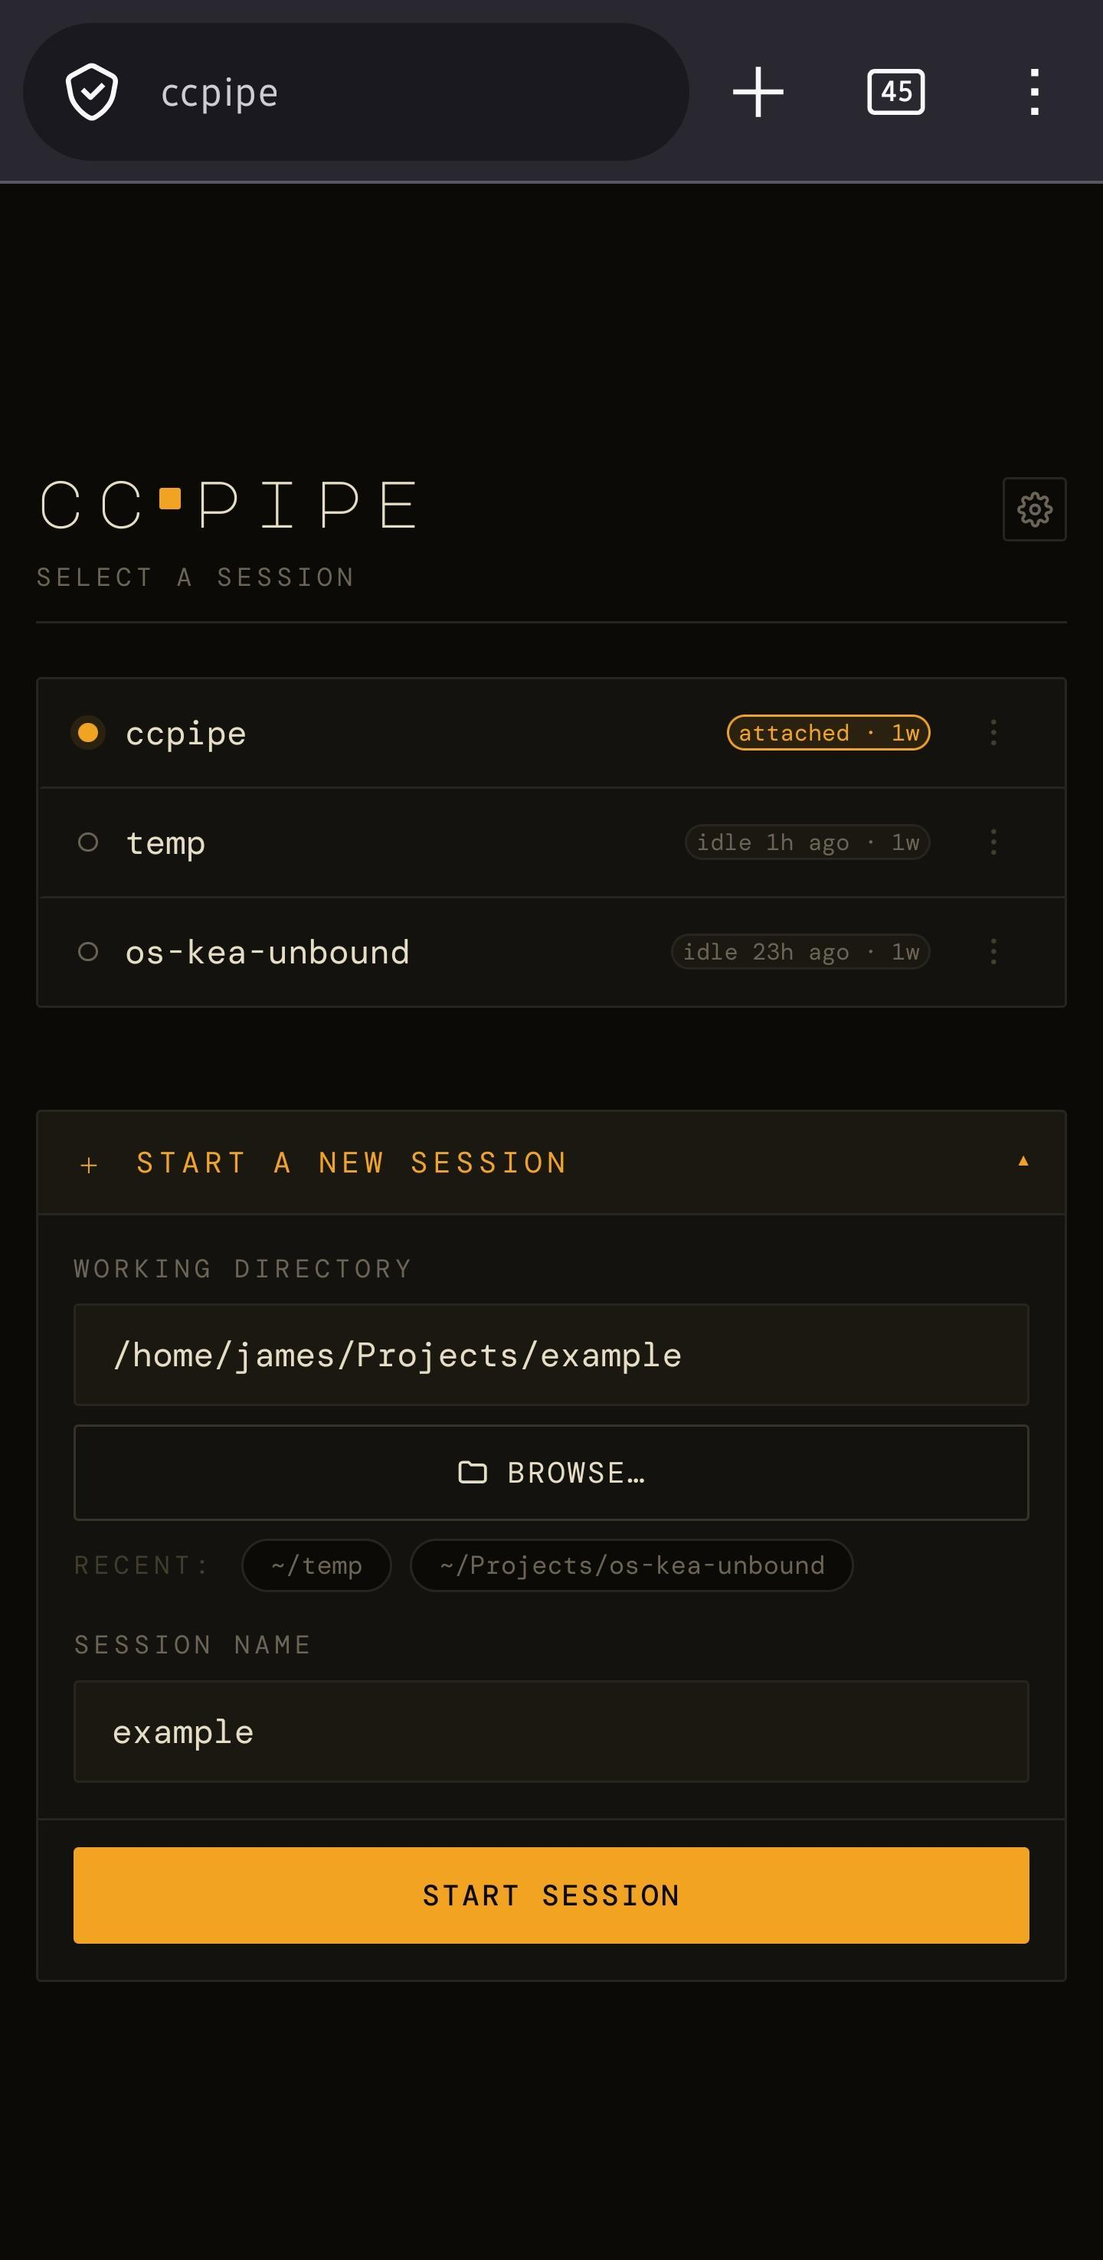
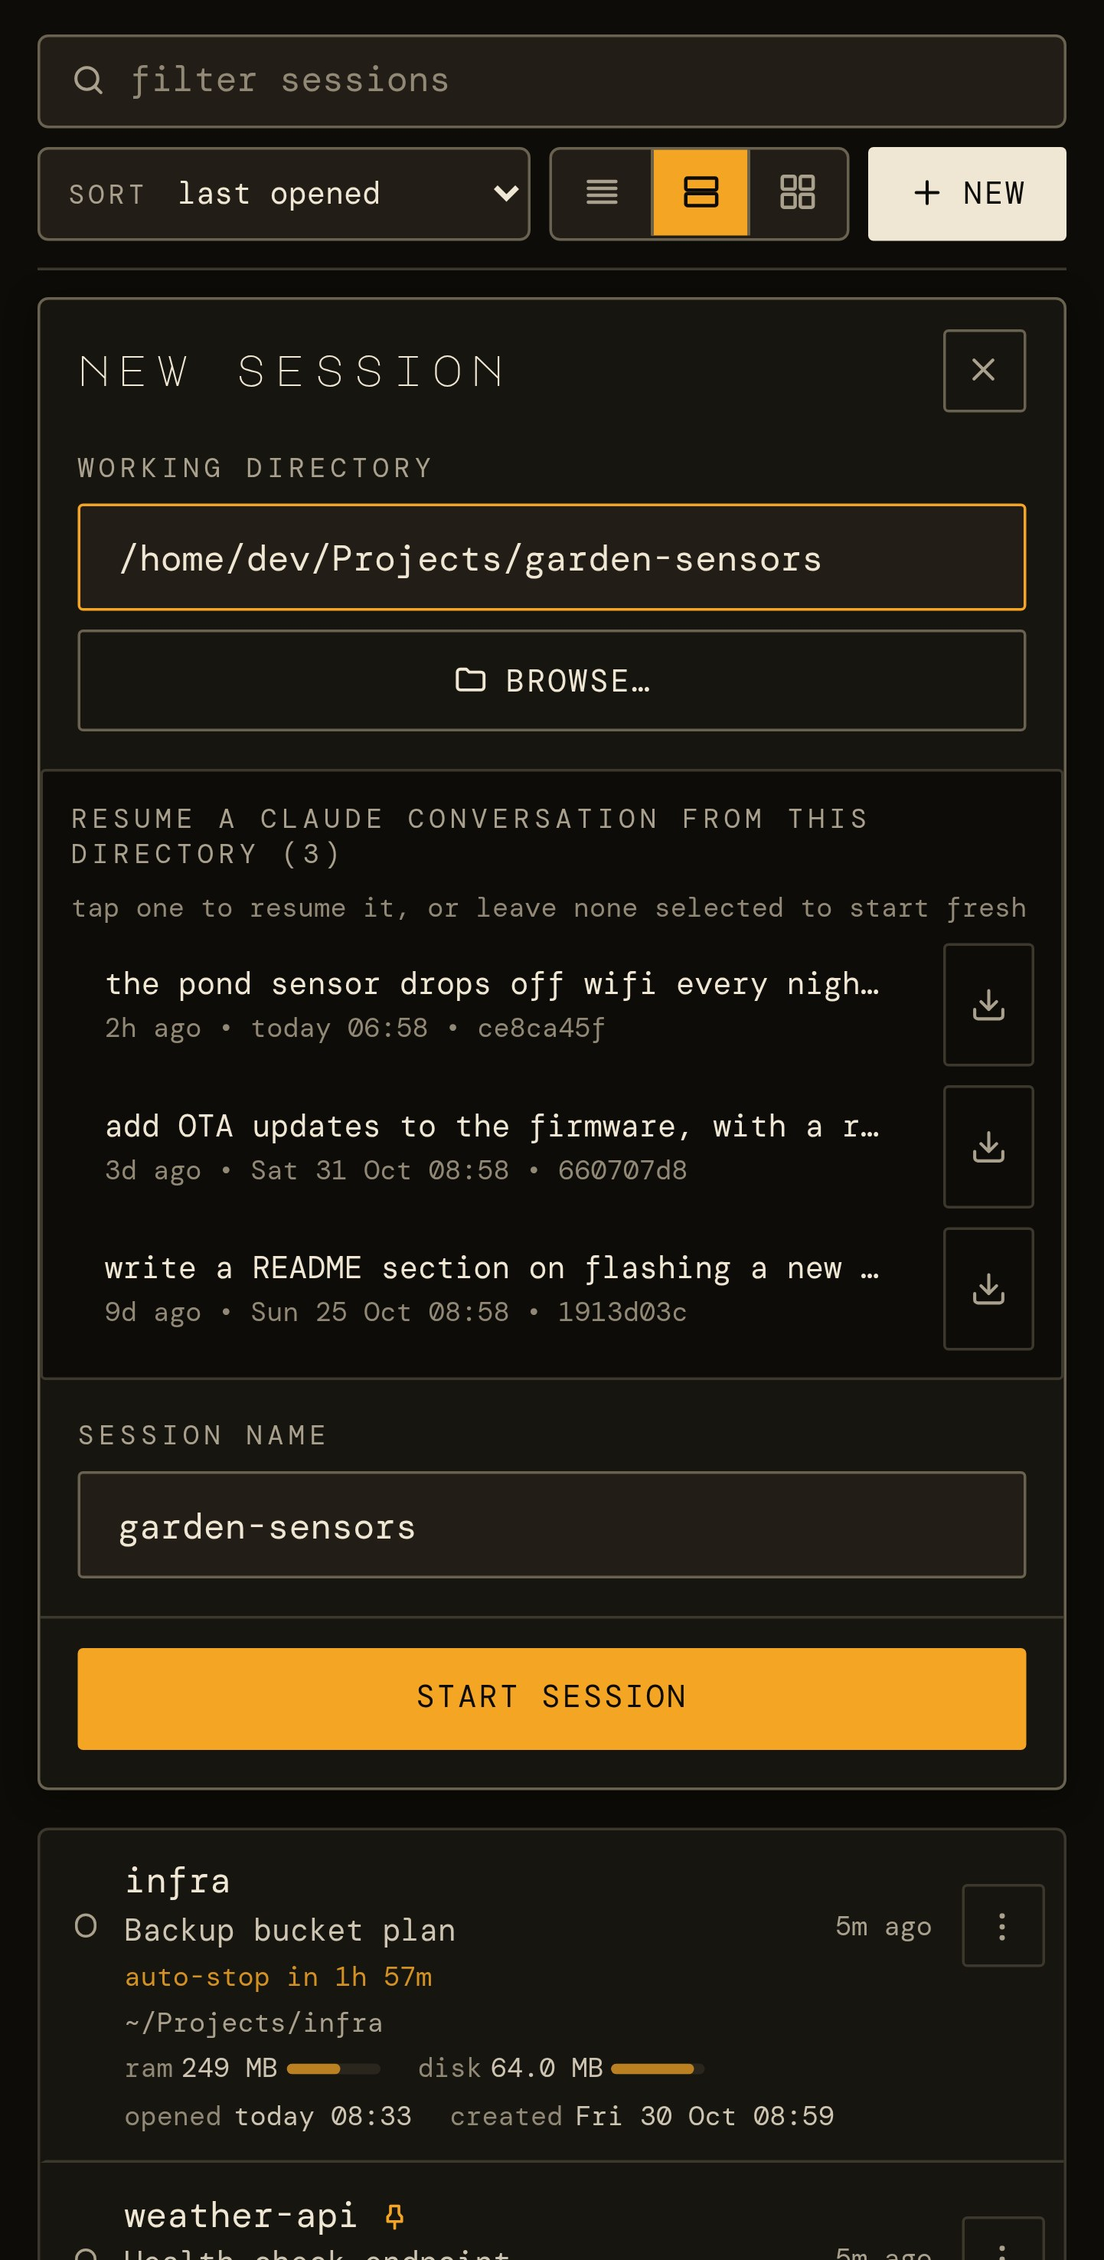
docs: README and screenshots for the session list, lifecycle and status
README: the session list (views, sort, filter, states, auto-stop
countdown), remembered / stopped sessions and resume, start at boot and
idle stop, Claude's working state, the system status meter and pop-up,
starting a session with resume, phones and tablets (key row, soft
keyboard, iPad window buttons), self-updating pages, a Settings overview,
what state is kept, and session records under the security notes.

Screenshots retaken on a demo machine with sample projects: every mobile
shot, login, every settings tab, tiles, the tiles menu, tmux controls,
the history view and the viewer (now with the docs drawer). New ones:
the desktop session list (table and grid), the status pop-up on phone
and desktop, Settings -> Sessions, and the file browser.

diff --git a/README.md b/README.md
@@ -24,41 +24,146 @@ the middle.
 
 ## What it looks like
 
+The screenshots come from a demo machine with sample projects.
+
 Mobile (PWA, installable to the home screen):
 
 <table>
 <tr>
-<td align="center"><img src="docs/screenshots/Mobile-StartSession.jpg" width="220" alt="Mobile session picker"></td>
-<td align="center"><img src="docs/screenshots/Mobile-CreateSession.jpg" width="220" alt="New session dialog with directory browse"></td>
-<td align="center"><img src="docs/screenshots/Mobile-Session.jpg" width="220" alt="Live session with voice"></td>
+<td align="center"><img src="docs/screenshots/Mobile-StartSession.jpg" width="200" alt="The session list on a phone: online status and ping, a summary of running, working and stopped sessions, CPU, memory and disk cards, a filter box, sort and view controls, and session rows showing Claude's task, working or idle state, the auto-stop countdown, memory, disk and when each was opened and created"></td>
+<td align="center"><img src="docs/screenshots/Mobile-CreateSession.jpg" width="200" alt="The new session panel: a working directory with a browse button, three earlier Claude conversations from that directory to resume, each with its first prompt, age and a download button, and the session name"></td>
+<td align="center"><img src="docs/screenshots/Mobile-Session.jpg" width="200" alt="A live Claude Code session on a phone: the top bar with the back button, ping, three-bar status meter and toolbar icons, Claude's reply with a diff, the prompt box holding a draft, and the Esc / Tab / / / Ctrl / arrow key row"></td>
+<td align="center"><img src="docs/screenshots/Mobile-Status.jpg" width="200" alt="The status pop-up opened from the three-bar meter: a key naming the cpu, mem and disk bars and their colours, CPU and memory graphs, disk use, and this session's memory, CPU and project size"></td>
 </tr>
 <tr>
-<td align="center"><sub>Pick an existing tmux session…</sub></td>
-<td align="center"><sub>…or start a new one in any directory…</sub></td>
-<td align="center"><sub>…then drive it by keyboard or voice.</sub></td>
+<td align="center"><sub>Every session, running or stopped…</sub></td>
+<td align="center"><sub>…start one in any directory, or resume an earlier conversation…</sub></td>
+<td align="center"><sub>…then drive it by keyboard, prompt box or voice.</sub></td>
+<td align="center"><sub>Tap the meter for the machine's status.</sub></td>
 </tr>
 </table>
 
 Desktop:
 
+<p align="center">
+  <img src="docs/screenshots/Desktop-Sessions.png" width="720" alt="The session list on a desktop, as a detailed table: each running session with its state, Claude's task, directory, last activity, memory and disk bars, last opened and created times, and below it the stopped sessions, each saying whether it resumes its conversation or as a shell">
+</p>
+
 <table>
 <tr>
 <td align="center"><img src="docs/screenshots/Desktop-Login.png" width="380" alt="Login screen"></td>
-<td align="center"><img src="docs/screenshots/Desktop-Display-Settings.png" width="380" alt="Display settings tab"></td>
+<td align="center"><img src="docs/screenshots/Desktop-Sessions-Settings.png" width="380" alt="Settings → Sessions: how many sticky and other sessions start at boot, and how long each kind may sit idle before it's stopped"></td>
 </tr>
 <tr>
 <td align="center"><sub>Login</sub></td>
-<td align="center"><sub>Display — font, line height, cursor</sub></td>
+<td align="center"><sub>Sessions — start at boot, idle stop</sub></td>
 </tr>
 <tr>
 <td align="center"><img src="docs/screenshots/Desktop-Voice-Settings.png" width="380" alt="Voice and voice-input settings"></td>
-<td align="center"><img src="docs/screenshots/Desktop-Account-Settings.png" width="380" alt="Account and two-factor settings"></td>
+<td align="center"><img src="docs/screenshots/Desktop-Account-Settings.png" width="380" alt="Account settings: change password or username, sign out, sign out everywhere, and two-factor setup"></td>
 </tr>
 <tr>
 <td align="center"><sub>Voice (TTS) + voice-input timings</sub></td>
-<td align="center"><sub>Account + two-factor (TOTP)</sub></td>
+<td align="center"><sub>Account, sign out everywhere, two-factor (TOTP)</sub></td>
 </tr>
 </table>
+
+**Session list.** The landing page lists every session, running or
+stopped. The header shows whether the server is online, the round-trip
+time, and a summary such as *8 running · 1 working · 1 with a task ·
+3 stopped*. Below it are the machine's CPU and memory, each with ten
+minutes of history, and its free disk space. Each session shows:
+
+- what Claude is working on: the task Claude Code puts in the pane
+  title;
+- its state: **working** while Claude is on a turn, **task running**
+  while a background shell task runs, idle otherwise, and **open**
+  while a terminal is attached somewhere;
+- its directory, memory, project size, and when it was last active,
+  last opened and first created;
+- a pin if it's sticky, and how many windows it has;
+- **auto-stop in 1h 57m** when it's idle and will be stopped (see below).
+
+Filter by name, task or directory (`/` jumps to the filter box), sort by
+recent activity, last opened, newest, name, memory or disk, and pick a
+compact list, a detailed table, or a grid of live screen previews. Each
+session's `⋮` menu opens, renames, stops or forgets it, or makes it
+sticky. Settings → Display → *status & graphs* turns the system panel and
+the per-session figures off on that device.
+
+<p align="center">
+  <img src="docs/screenshots/Desktop-Sessions-Grid.png" width="720" alt="The session list as a grid: each card shows a live preview of the session's screen above its directory, state, memory, disk and times">
+</p>
+
+**Sessions are remembered.** A session that isn't running stays on the
+list under **stopped**. That happens after a reboot, after an idle stop,
+or after you stop it from its menu. Tap it and it comes back: same name,
+same directory, and `claude --resume` on the conversation it was on. A
+session that never ran Claude (a shell you started over ssh, say)
+resumes as a shell in its directory instead. *Forget* removes a session
+for good. Under Settings → Sessions:
+
+- **Start at boot:** after a reboot, only the most recently used few
+  start by themselves: 5 sticky sessions and 0 others by default. The
+  rest wait until you open them. Restarting ccpipe (a deploy, say)
+  starts nothing and leaves stopped sessions stopped.
+- **Idle stop:** sessions that sit idle are stopped to free their
+  memory, after 1 day for sticky sessions and 2 hours for others
+  (0 = never). Idle is deliberately hard to reach. A session counts as
+  in use while any of these holds:
+  - a terminal is attached;
+  - its pane shows output;
+  - Claude is working, or has a background task or tool command
+    running;
+  - anything else runs in its shell;
+  - it uses CPU;
+  - a question or permission prompt is waiting.
+
+  Only sessions running Claude are ever stopped, and every stop is
+  logged.
+- **When it can't resume:** if the directory was deleted, opening the
+  session says so and leaves its record alone. It never quietly starts
+  a fresh Claude in `$HOME`.
+- **When a terminal is open on a stopped session:** stopping or
+  forgetting a session that a terminal has open sends that terminal
+  back to the list with a note ("weather-api was stopped") rather than
+  reconnecting.
+
+The details are in
+[`docs/configuration.md`](docs/configuration.md#remembered-stopped-and-sticky-sessions).
+
+**Claude's working state.** ccpipe takes "is Claude working" from Claude
+Code's own status file (`~/.claude/sessions/<pid>.json`: busy, idle, or
+idle with a background shell task). It doesn't guess from the screen,
+so a long tool call that prints nothing for minutes still counts as
+working.
+
+**System status in every session.** Beside the ping in a session's top
+bar:
+
+- On a wide screen there's a CPU graph, memory and disk bars, and the
+  project's size.
+- On a phone or a narrow window that becomes three thin bars: CPU,
+  memory and disk, from left to right. Each bar is amber below 70 %,
+  orange from 70 % and red from 90 %.
+
+Click or tap it for a pop-up with the graphs, the exact figures, and
+this session's own memory (the PSS of its whole process tree), CPU and
+project size. On the compact meter the pop-up starts with a key to the
+bars. Tapping it on a phone doesn't close the soft keyboard. Each part
+can be switched off per device, and the refresh interval set (2–30 s).
+A part that's switched off stops asking the server too.
+
+<p align="center">
+  <img src="docs/screenshots/Desktop-Status.png" width="620" alt="A session's top bar on a desktop: the inline CPU graph, memory and disk bars and project size, with the status pop-up open below showing CPU and memory graphs, disk use and this session's memory, CPU and project size">
+</p>
+
+**Starting a session.** **+ new** opens a panel: pick a working
+directory (type it or **browse…**) and a session name, which is filled
+in from the directory. If Claude has conversations from that directory,
+they're listed by their first prompt and age. Tap one to resume it, or
+leave none selected to start fresh. The ↓ beside each one downloads that
+conversation as Markdown.
 
 **File browser.** The toolbar **Files** button opens a file browser at
 the session's project folder: upload, create folders, rename, delete,
@@ -68,6 +173,10 @@ you're in. It first shows how many files and how much data that is, and
 leaves hidden files (`.git`, `.venv`, …) out unless you choose to include
 them. The zip is built as it downloads, so there's no wait for a big
 folder to be packed first.
+
+<p align="center">
+  <img src="docs/screenshots/Desktop-Files.png" width="480" alt="The file browser beside a session: the project path, upload, new dir and zip buttons, the folder listing, and a folder's menu offering download .zip, rename and delete">
+</p>
 
 **Document viewer.** Any Markdown file in your project opens fully rendered
 in its own browser tab — GitHub-flavoured, with syntax highlighting, KaTeX
@@ -91,7 +200,7 @@ the **✕** at the top right of the viewer and the history view closes it and
 returns you to the terminal.
 
 <p align="center">
-  <img src="docs/screenshots/Viewer-Markdown.png" width="520" alt="Rendered Markdown viewer: a live-updating tab showing GFM tables, syntax-highlighted code, a task list, KaTeX math, and a Mermaid diagram">
+  <img src="docs/screenshots/Viewer-Markdown.png" width="640" alt="Rendered Markdown viewer: a live-updating tab showing a Mermaid diagram, a GFM table, KaTeX maths, syntax-highlighted code and a task list, with the docs drawer docked on the left listing recently modified documents and the project's folder tree">
 </p>
 
 **Conversation history.** The toolbar **🕘 History** button opens a
@@ -107,6 +216,10 @@ what actually happened. On mobile, in-terminal touch-scroll is forwarded to
 Claude as wheel events, so dragging up scrolls Claude's own view (clean), the
 same as a desktop mouse wheel.
 
+<p align="center">
+  <img src="docs/screenshots/History-View.png" width="560" alt="Conversation history view: your prompts, Claude's Markdown-rendered replies with a table and a code block, and the tool calls in between: files read, a file written, edits shown as -/+ diffs and a shell command, live-updating in a console-styled tab">
+</p>
+
 **Prompt box.** Under the terminal — on phones, tablets and desktop — is a
 prompt box for composing longer prompts before sending them with **Enter**.
 Whatever you type is the session's **draft**: it's kept on the server, comes
@@ -118,6 +231,26 @@ drops down your saved prompts (filterable, with a preview and delete) and
 inserts the one you pick at the cursor. Saved prompts are shared by every
 session and every device. On desktop, keystrokes still go straight to the
 terminal until you click into the box.
+
+**Phones and tablets.** Installed to the home screen, ccpipe runs full
+screen:
+
+- **Keys:** a row of keys sits above the soft keyboard: Esc, Tab, `/`,
+  Ctrl and the arrows. Phone keyboards can't send Ctrl combinations
+  themselves.
+- **Prompt box:** the folder button inserts a file or folder path, and
+  the mic dictates.
+- **Soft keyboard:** the terminal re-fits when the keyboard opens. The
+  key row and the status meter keep the keyboard up when you tap them.
+- **Top bar:** on a phone the back-to-sessions button is the spark mark,
+  so the session name has room.
+- **iPad:** iPadOS 26 draws its window buttons over the top-left corner
+  of a home-screen app. ccpipe's top bar starts clear of them there, and
+  the ✕ that closes the viewer and the history view sits top right for
+  the same reason.
+- **Display:** the terminal font is chosen per device. If letters come
+  out garbled on one device, its WebGL renderer can be switched off
+  there alone.
 
 **Copying from the terminal.** Select text and it's copied to your
 clipboard automatically — a toast confirms and previews what was copied.
@@ -144,7 +277,7 @@ too narrow, so the terminal stays full-screen and the tiles wait for a
 bigger screen.
 
 <p align="center">
-  <img src="docs/screenshots/Desktop-Tiles.png" width="720" alt="Four sessions on one screen: the main session with a git log and a split pane, a live tile running the backend tests, and two watching tiles showing a server log and a system monitor">
+  <img src="docs/screenshots/Desktop-Tiles.png" width="720" alt="Four sessions on one screen: the main session with a git log and a split pane, a live tile showing a test run, and two watching tiles showing a web server's log and a system monitor">
 </p>
 <p align="center">
   <img src="docs/screenshots/Desktop-Tiles-Menu.png" width="440" alt="The tiles menu: add another session beside or below the focused tile, or arrange the tiles side by side, as a grid, main + stack, or stacked">
@@ -168,8 +301,36 @@ A connection attempt that gets stuck on a network that's gone is abandoned
 after 10 seconds and retried, and returning to the app redials straight
 away, so you shouldn't need to reload.
 
+**Updates without a reload.** After a deploy, open pages move to the new
+build by themselves, at a moment that loses nothing:
+
+- straight away on the session list;
+- otherwise when the app comes back from the background, or after ten
+  idle minutes.
+
+It never happens with a dialog open, mid-dictation, or while the
+terminal is scrolled back. A small toast offers to reload sooner. Until
+then the old page keeps working, because each build keeps the files of
+the last three builds.
+
+**Settings.** The gear opens Settings:
+
+| Tab | What's in it |
+|---|---|
+| **Display** | Text size and spacing; the terminal font (per device); the cursor's style, colour and blink; the WebGL renderer switch; and *status & graphs*. Applies as you change it. |
+| **Sessions** | How many sessions start at boot, and the idle stop times (above). |
+| **Voice** | Text-to-speech: voice, speed, what to read aloud, and a notification when the app is in the background. Voice input: when dictation stops and is sent. |
+| **Account** | Change the username or password, sign out, sign out everywhere, set up two-factor (TOTP). |
+| **Debug** | A diagnostic snapshot (Ctrl+Shift+D) for terminal display bugs. |
+
+The footer shows the build the page is running, with **Force reload**
+(**Update ready · reload** once a newer build is deployed). Under it is
+a readout of what the screen reports: safe-area insets, window and
+screen size, and whether the page is an installed app. That's handy for
+checking the layout on a new device.
+
 <p align="center">
-  <img src="docs/screenshots/History-View.png" width="560" alt="Conversation history view: Markdown-rendered Claude replies with inline tool calls — shell commands run and file edits shown as diffs — live-updating in a console-styled tab">
+  <img src="docs/screenshots/Desktop-Display-Settings.png" width="480" alt="Settings → Display: font size, line height and letter spacing; a grid of terminal fonts for this device; cursor style, unfocused style, colour, width and blink; the WebGL renderer switch; and status & graphs: the landing-page panel, the top-bar status, memory and disk per session, and the refresh interval; with the build id, Force reload and the screen readout in the footer">
 </p>
 
 ## Architecture
@@ -184,8 +345,15 @@ friction than it solved.
                                    │
                                    ├── tmux client (talks to user's tmux server)
                                    ├── /tmp/ccpipe_mic.pipe (Pulse pipe-source)
-                                   └── watches ~/.claude/projects/*.jsonl → Kokoro
+                                   ├── watches ~/.claude/projects/*.jsonl → Kokoro
+                                   ├── reads ~/.claude/sessions/<pid>.json (Claude's busy / idle)
+                                   └── reads /proc (system + per-session CPU, memory)
 ```
+
+State it keeps (`~/.local/state/ccpipe`): credentials, settings, the
+record of every session (directory, Claude conversation, times), sticky
+sessions, prompt-box drafts, saved prompts and tile layouts. See
+[`docs/configuration.md`](docs/configuration.md#where-state-lives).
 
 ## Prereqs
 
@@ -314,7 +482,8 @@ proxy host.
 ## More
 
 - [`docs/configuration.md`](docs/configuration.md) — env-var reference,
-  voice setup, voice-input timing knobs, where state lives.
+  voice setup, voice-input timing knobs, the session lifecycle (start at
+  boot, idle stop, resume), system status, where state lives.
 - [`docs/deployment.md`](docs/deployment.md) — reverse proxy, TLS, the
   systemd drop-in, troubleshooting.
 - [`docs/development.md`](docs/development.md) — dev workflow, layout,
@@ -365,6 +534,11 @@ proxy host.
 - **Drafts and saved prompts live on the server.** Unsent prompt-box
   text and saved prompts are stored in plain text (`0600`) in ccpipe's
   state directory so they can follow you between devices.
+- **Session records.** So stopped sessions can resume, ccpipe keeps each
+  session's directory and Claude conversation id in `session_meta.json`
+  (`0600`, state directory) until you forget it. Resuming runs only
+  `claude --resume <id>` or `claude --continue` (or a shell), in a
+  directory inside `CCPIPE_FS_ROOT`.
 - **0.0.0.0 bind.** Required for an off-host proxy; firewall `:8080`
   to the proxy host (IPv6 too, if you bind `::` — see
   [`docs/deployment.md`](docs/deployment.md)). The startup banner
